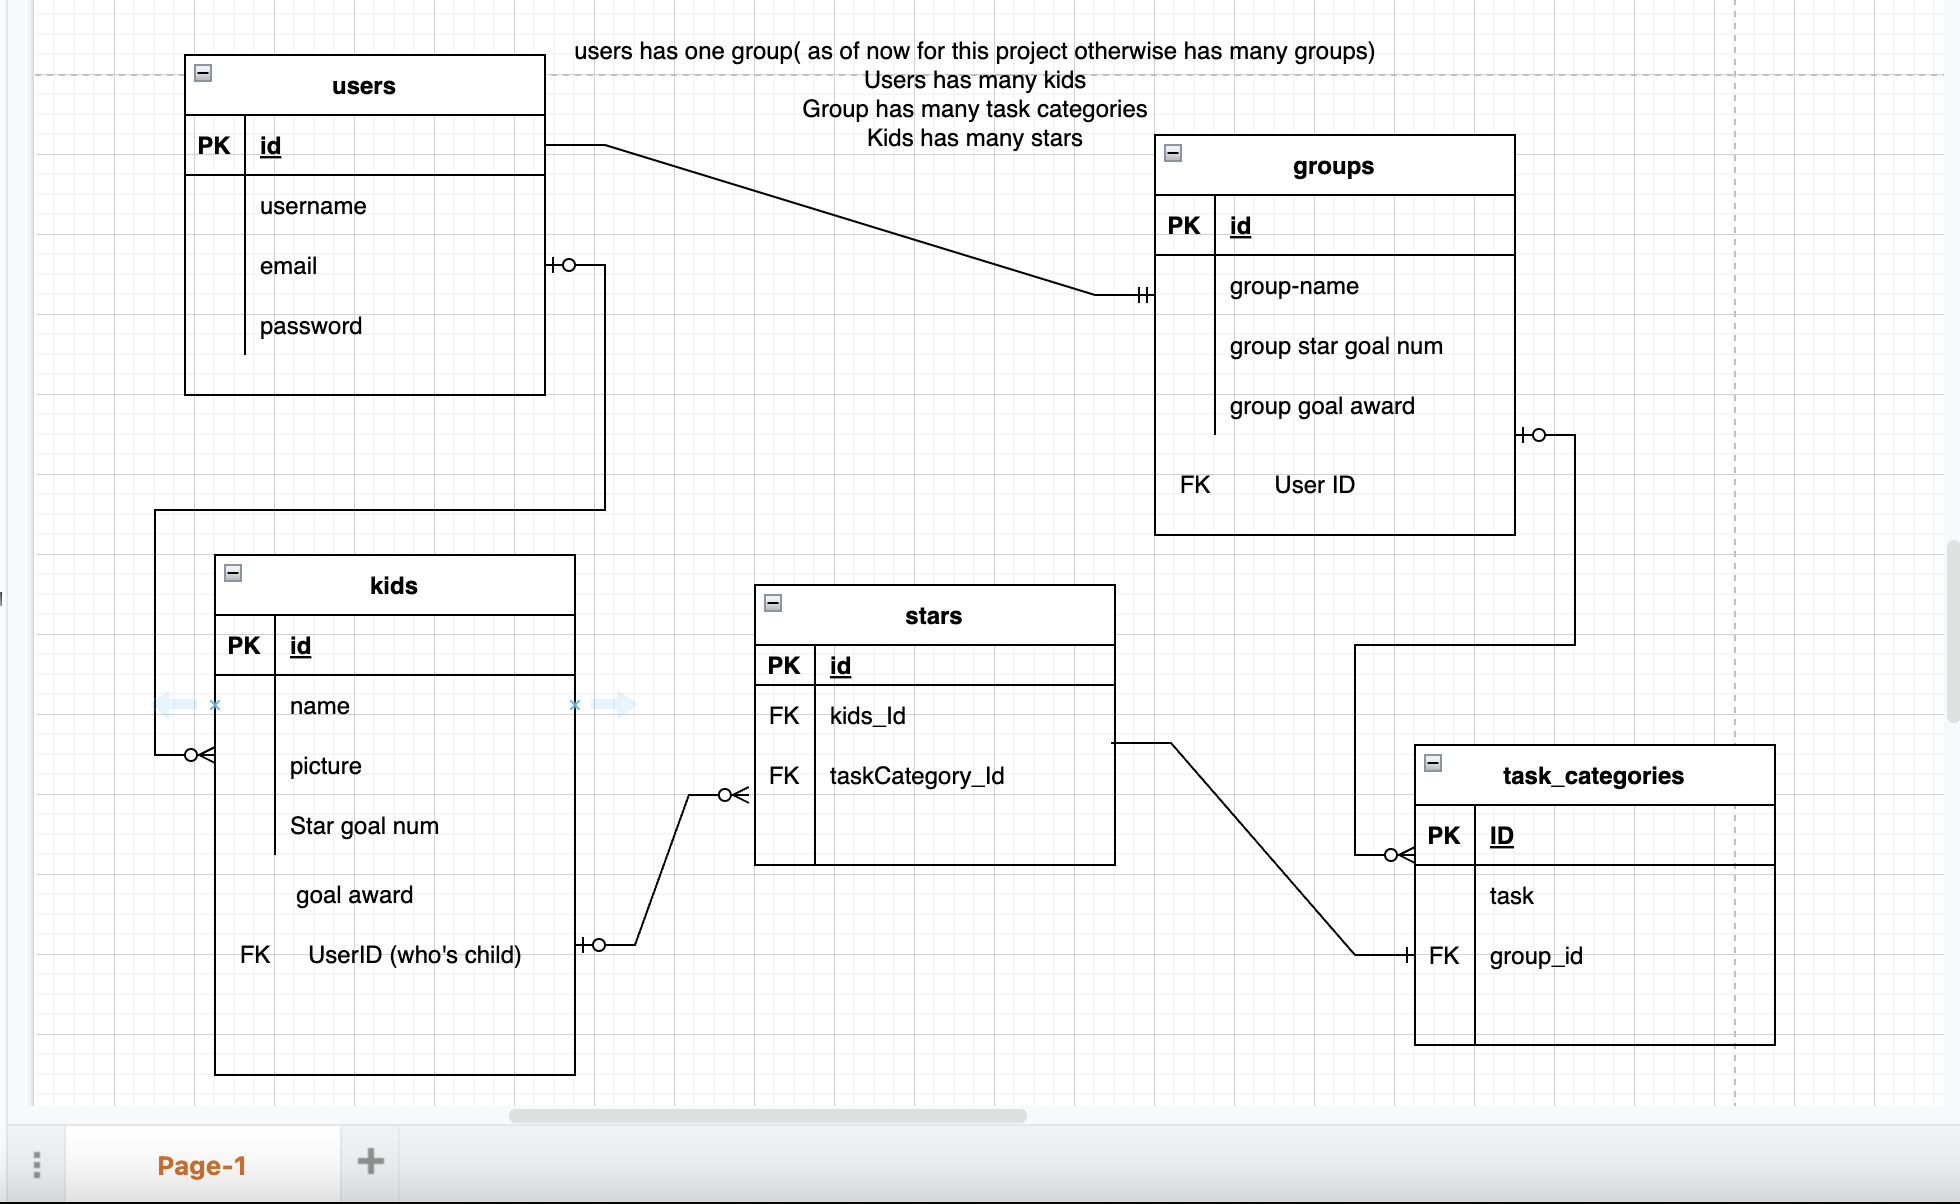
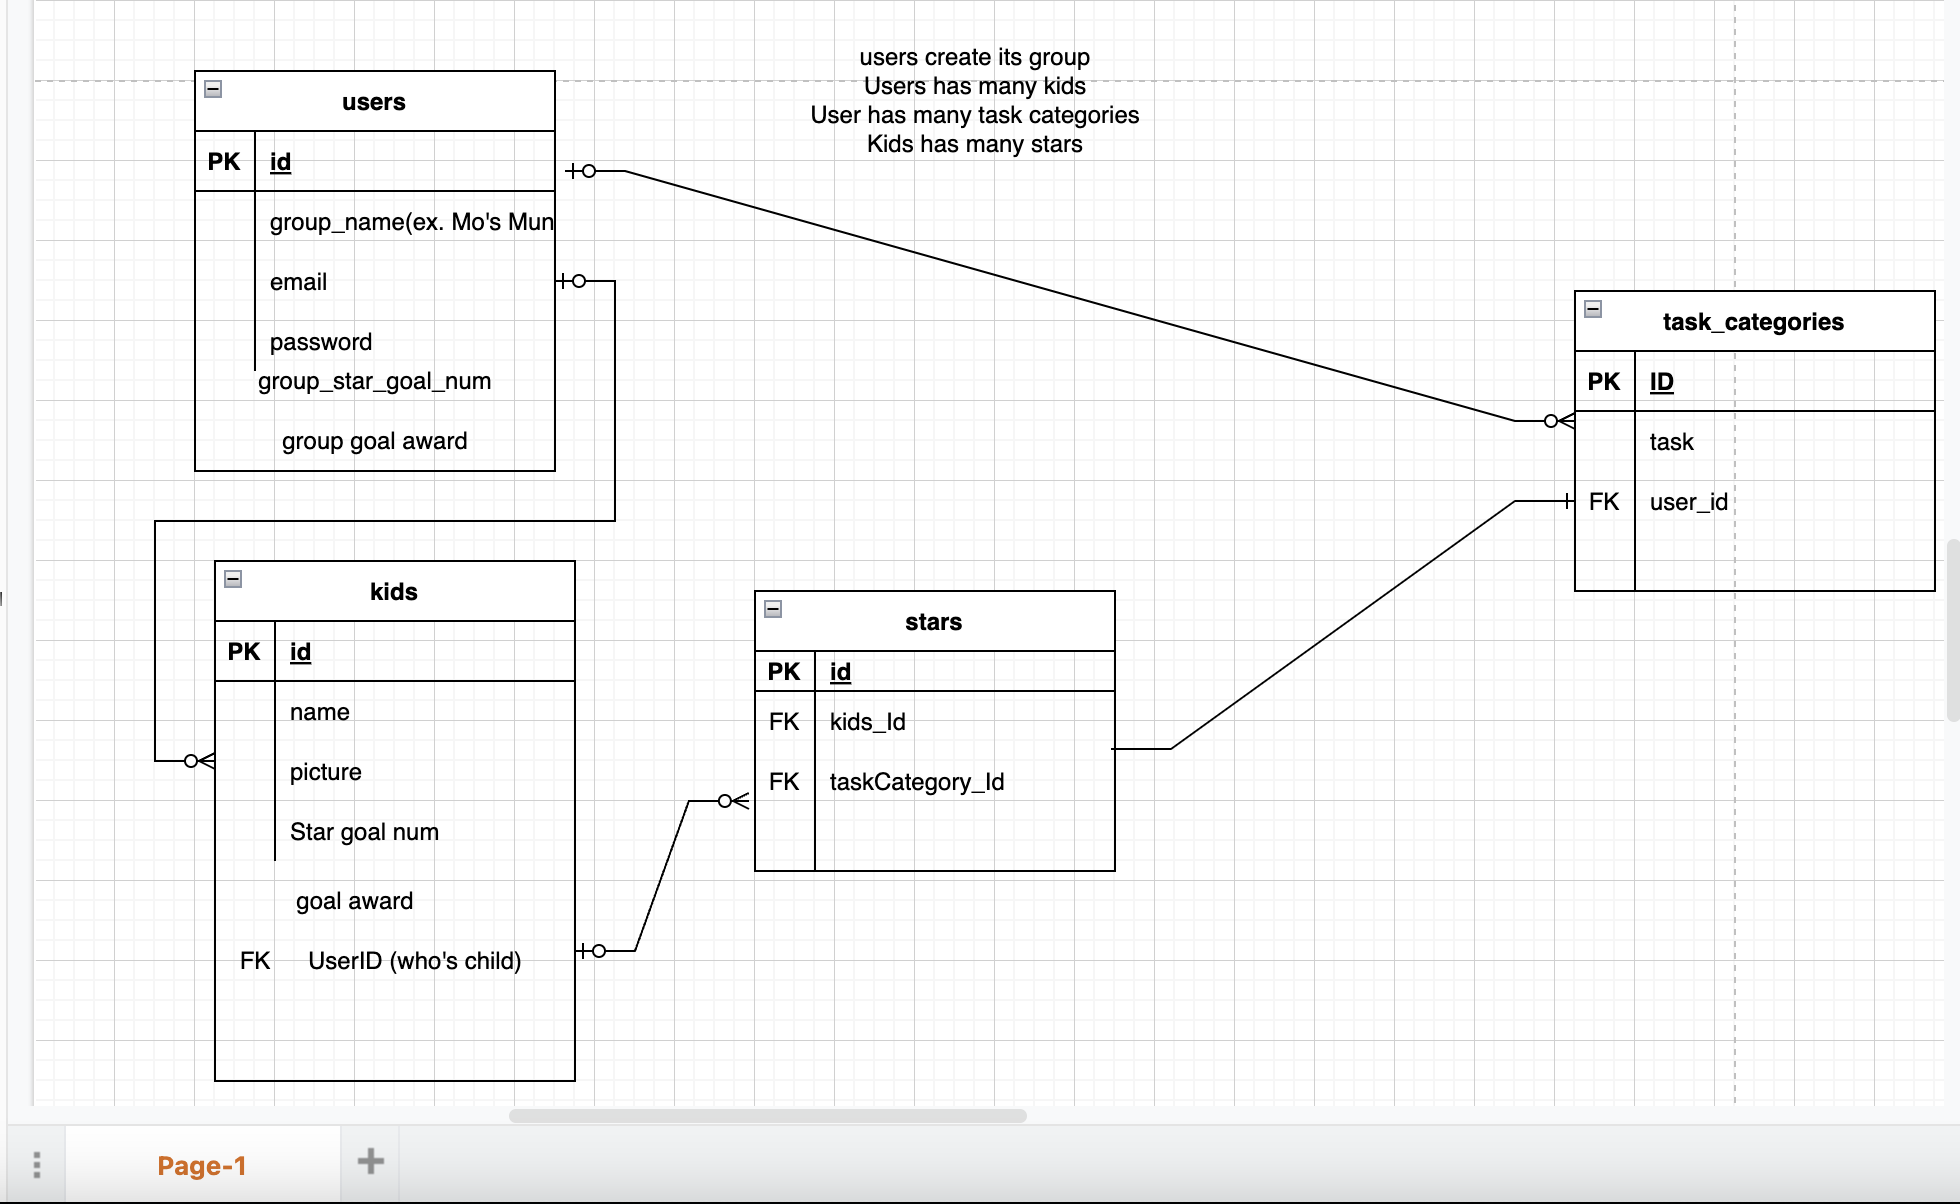
corrected the table structure

diff --git a/seeds/seed.js b/seeds/seed.js
@@ -1,8 +1,9 @@
 const sequelize = require('../config/connection');
-const { User, Kid } = require('../models');
+const { User, Kid ,Task_Categories} = require('../models');
 
 const userData = require('./userData.json');
 const kidData = require('./kidData.json');
+const taskCategoryData = require('./taskCategoryData.json');
 
 const seedDatabase = async () => {
   await sequelize.sync({ force: true });
@@ -15,6 +16,13 @@ const seedDatabase = async () => {
   for (const kid of kidData) {
     await Kid.create({
       ...kid,
+      user_id: users[Math.floor(Math.random() * users.length)].id,
+    });
+  }
+
+  for (const task of taskCategoryData) {
+    await Task_Categories.create({
+      ...task,
       user_id: users[Math.floor(Math.random() * users.length)].id,
     });
   }

diff --git a/models/User.js b/models/User.js
@@ -16,7 +16,16 @@ User.init(
       primaryKey: true,
       autoIncrement: true,
     },
-    name: {
+    group_name: {
+      type: DataTypes.STRING,
+      allowNull: false,
+    },
+    group_star_goal_num: {
+      type: DataTypes.INTEGER,
+      allowNull: false,
+      defaultValue: DataTypes.NOW,
+    },
+    group_goal_award: {
       type: DataTypes.STRING,
       allowNull: false,
     },

diff --git a/models/Task_categories.js b/models/Task_categories.js
@@ -15,10 +15,10 @@ Task_categories.init(
         type: DataTypes.STRING,
         allowNull: false
       },
-    group_id: {
+    user_id: {
       type: DataTypes.INTEGER,
       references: {
-        model: 'group',
+        model: 'user',
         key: 'id',
       },
     },
